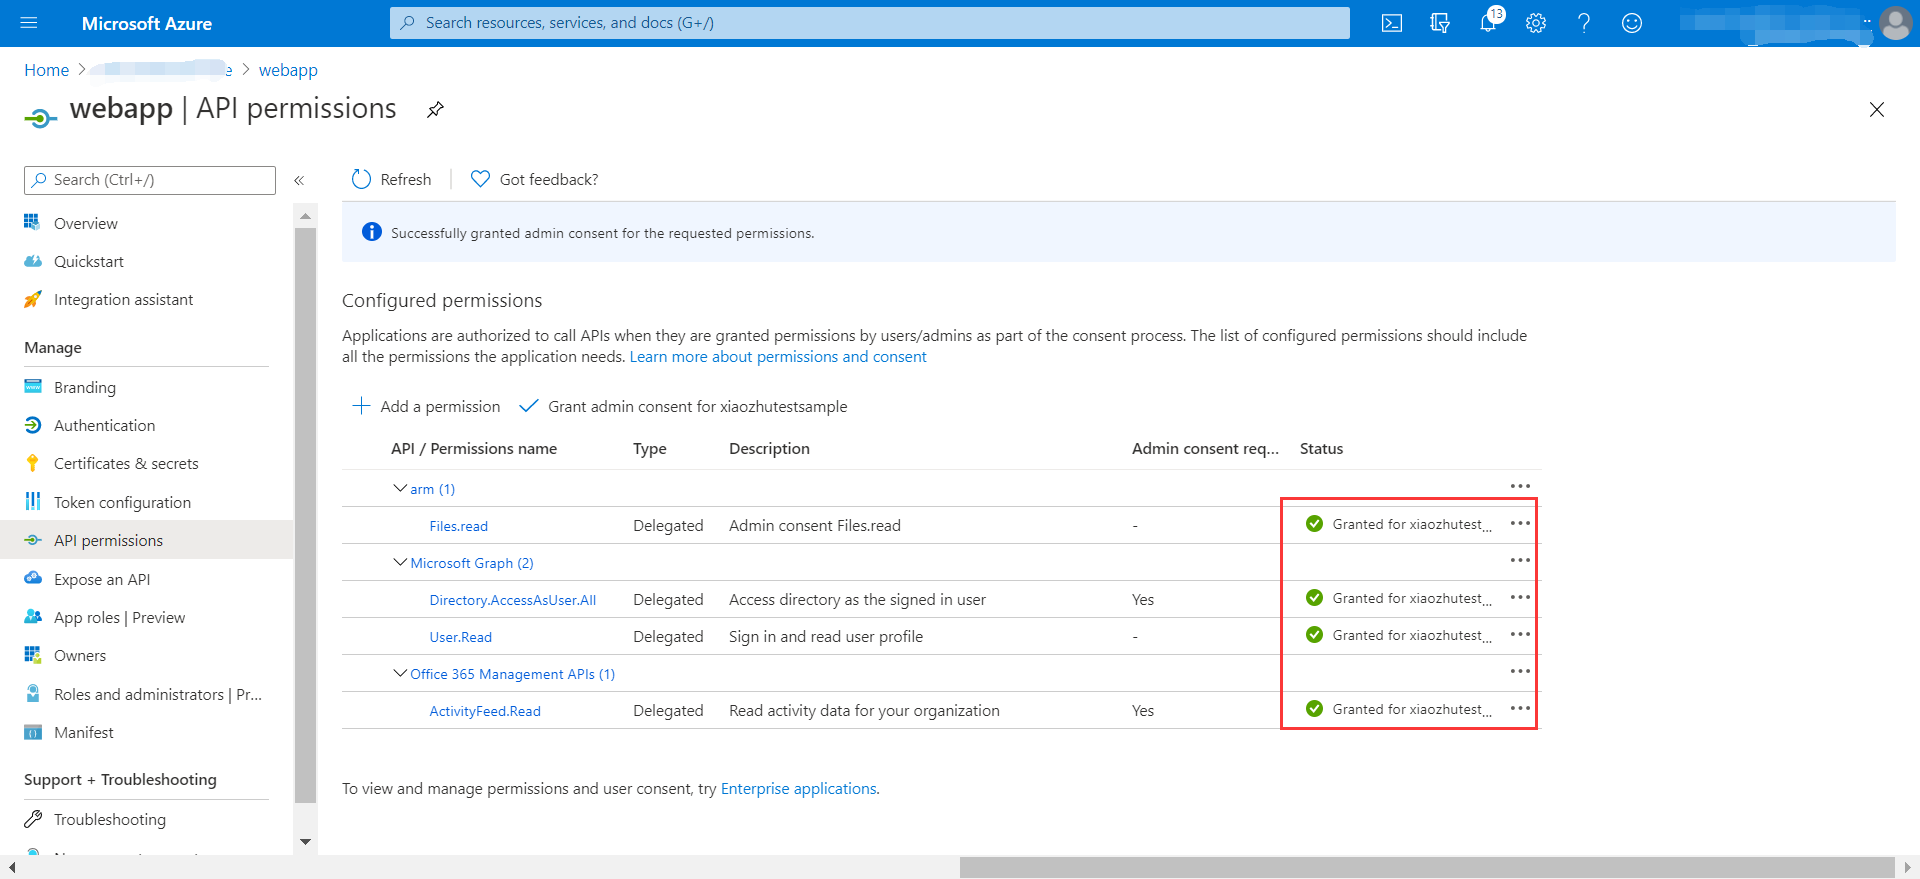
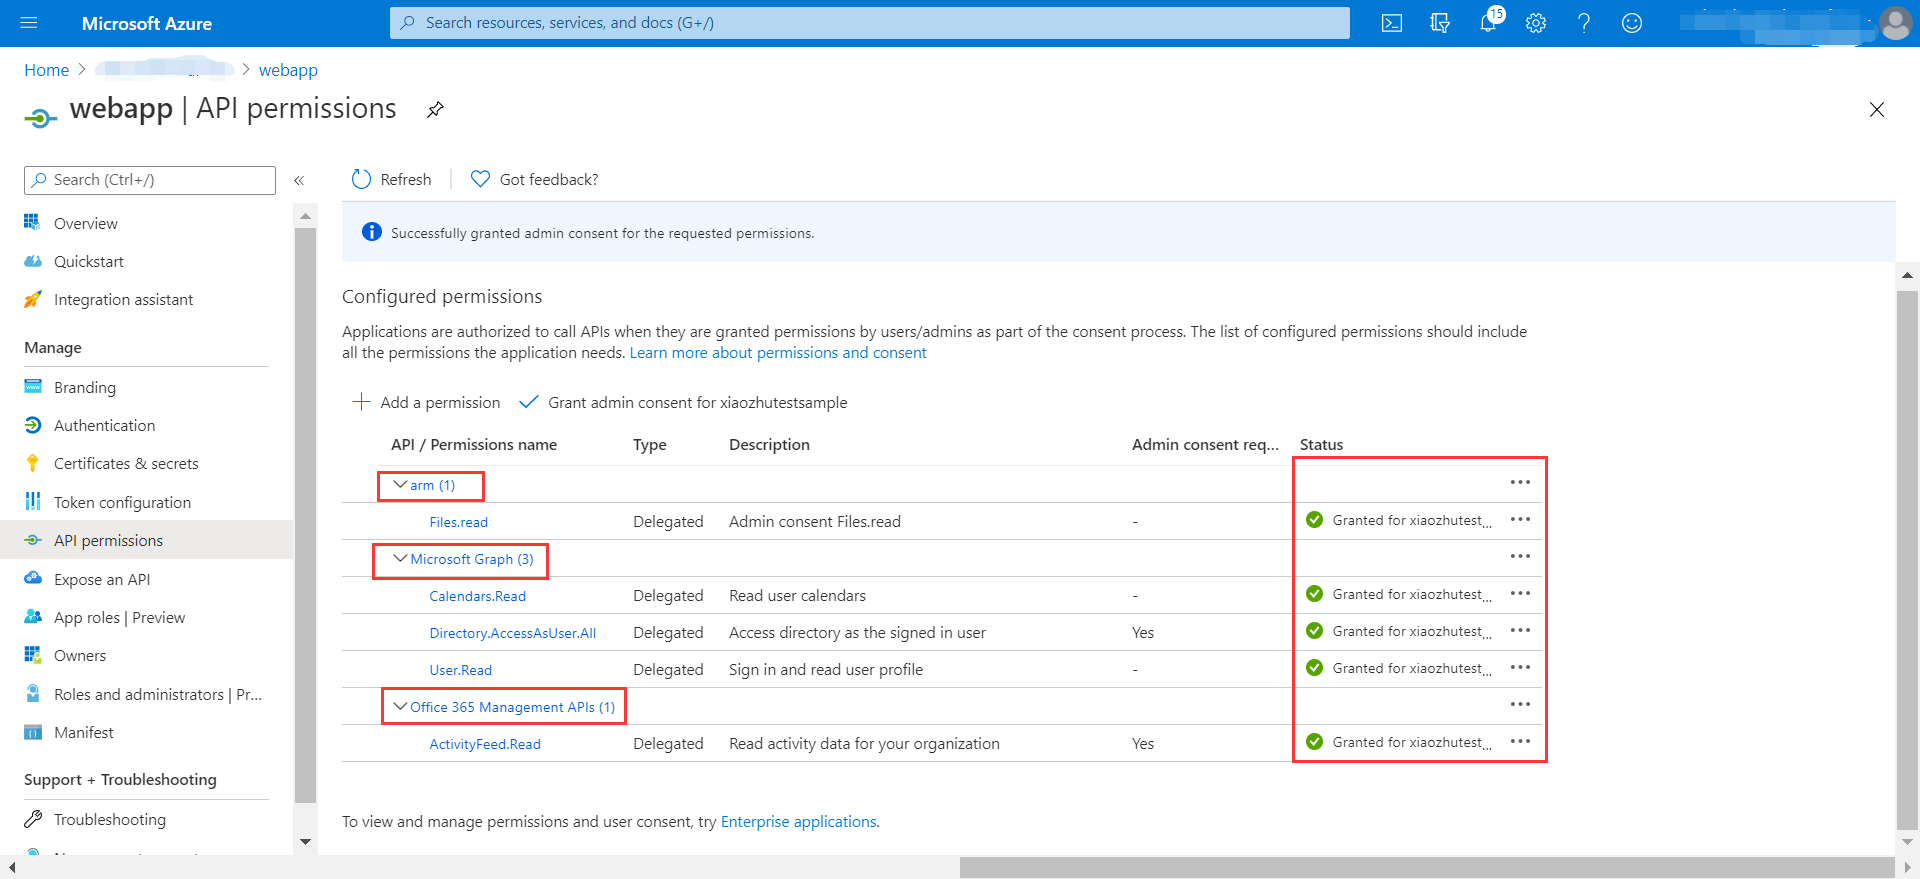
default

diff --git a/sdk/spring/azure-spring-boot-samples/azure-spring-boot-sample-active-directory-webapp/README.md b/sdk/spring/azure-spring-boot-samples/azure-spring-boot-sample-active-directory-webapp/README.md
@@ -4,78 +4,59 @@
 This sample illustrates how to use `azure-spring-boot-starter-active-directory` package to work with OAuth 2.0 and OpenID Connect protocols on Auzre. This sample will use Microsoft Graph API to retrieve user infomation.
 
 ## Getting started
-
 ### Environment checklist
 We need to ensure that this [environment checklist][ready-to-run-checklist] is completed before the run.
 
 ### Portal configurations
-
-#### Configure custom web api
+#### Configure web api
 1. Search for and select Azure Active Directory.
 2. Under Manage, select **App registrations** -> **New registration**.![Protal manage](docs/image-protal-manage.png "Protal manage")
 3. The registered application name is filled into **arm**, select **Accounts in this organizational directory only**, click **register** button.![Register a web api](docs/image-register-a-web-api.png "Register a web api")
-4. Under **arm** application, select **Certificates & secrets** -> **new client secret**, expires select **Never**, click **add** button.(Remember to save the secrets here and use them later)![Creat secrets](docs/image-creat-secrets-api.png "Creat secrets")
-5. Under **arm** application, select **Expose an API** -> **Add a scope**, Use the default **Application ID URI**, click **Save and continue** button.![Expose apis](docs/image-expose-apis.png "Expose apis")
-6. After step five,the page will refresh again.Then set the **Scope name** to *Files.read*.![Add a scope](docs/image-add-a-scope.png "Add a scope")
-
-#### Configure custom web app
-2. Under Manage, select **App registrations** -> **New registration**.![Protal manage](docs/image-protal-manage.png "Protal manage")
-3. The registered application name is filled into **webapp**, select **Accounts in this organizational directory only**, click the register button.![Register a web app](docs/image-register-a-web-app.png "Register a web app")
-4. Under **webapp** application, select **Certificates & secrets** -> **new client secret**, expires select **Never**, click the add button.(Remember to save the secrets here and use them later)![Creat secrets](docs/image-creat-secrets-app.png "Creat secrets")
-5. Under **webapp** application, select **Authentication** -> **Add a platform**, select **web** platform, redirect urls set to `http://localhost:8080/login/oauth2/code/azure`, check the Access Token and ID Token checkboxes, click configure button.![Add a platfform](docs/image-add-a-platfform.png "Add a platfform")
-   Under **webapp** application, select **Authentication** -> **Add URI**, redirect urls again set to `http://localhost:8080/login/oauth2/code/arm`. ![App add url](docs/image-app-add-url.png "App add url")
-6. Under **webapp** application, select **API permissions** -> **Add a permission**, select **Microsoft Graph**.![Api permission](docs/image-api-permissions.png "Api permission")
+4. Under **arm** application, select **Certificates & secrets** -> **new client secret**, expires select **Never**, click **add** button.(Remember to save the secrets here and use it later)![Creat secrets](docs/image-creat-secrets-api.png "Creat secrets")
+5. Under **arm** application, select **Expose an API** -> **Add a scope**, Use the default **Application ID URI**, click **Save and continue** button.![Expose apis](docs/image-set-app-id-url.png "Expose apis")
+6. After step five,the page will refresh again.Then set the **Scope name** to *Files.read*.(This scope will be used in Application.yml)![Add a app id url](docs/image-add-a-scope.png "Add a app id url")
+7. Expose scopes in web API registration.![Expose api](docs/image-expose-api.png "Expose api")
+See [Register app or web API], [Expose scopes in web API registration] for more information about the Web API.
+   
+#### Configure web app
+1. Under Manage In the same tenant, select **App registrations** -> **New registration**.![Protal manage](docs/image-protal-manage.png "Protal manage")
+2. The registered application name is filled into **webapp**, select **Accounts in this organizational directory only**, click the **register** button.![Register a web app](docs/image-register-a-web-app.png "Register a web app")
+3. Under **webapp** application, select **Certificates & secrets** -> **new client secret**, expires select **Never**, click the **add** button.(Remember to save the secrets here and use them later)![Creat secrets](docs/image-creat-secrets-app.png "Creat secrets")
+4. Under **webapp** application, select **Authentication** -> **Add a platform**, select **web** platform, redirect urls set to `http://localhost:8080/login/oauth2/code/azure`, check the Access Token and ID Token checkboxes, click **configure** button.![Add a platfform](docs/image-add-a-platfform.png "Add a platfform")
+5. Under **webapp** application, select **Authentication** -> **Add URI**, you need to add redirect URIs of `http://localhost:8080/login/oauth2/code/arm`. ![App add url](docs/image-app-add-url.png "App add url")
+6. Under **webapp** application, select **API permissions** -> **Add a permission**, select **Microsoft Graph**. Next, search **Calendar.Read** via select Permissions, check the check box,click **add permissions** button.![Api permission](docs/image-api-permissions.png "Api permission")
 7. Similarly, add **Directory.AccessAsUser.All** permission in **Microsoft Graph** and add **ActivityFeed.Read** permission in **Office 365 Management APIs**.![Add Directory.AccessAsUser.All and ActivityFeed.Read permission](docs/image-add-accessuser-and-activityfeed-permission.png "Add Directory.AccessAsUser.All and ActivityFeed.Read permission")
 8. Continue to select **API permissions** -> **Add a permission** -> **My APIS**, select **arm** tab, add **Files.read** permission,click **Add permissions** button.![Webapi permission](docs/image-webapi-permission.png "Webapi permission")
 9. click **Grant admin consent for...**.![Grant permission](docs/image-granted-permission.png "Grant permission")
 10. Finally.![Final](docs/image-final.png "Final")
 
-#### Configure the callback URL
-![Platform configurations](docs/image-platform-configurations.png "Platform configurations")
+See [Register app or web API], [Grant scoped permission] for more information about the Web APP.
 
-- Set redirect URIs with `http://localhost:8080/login/oauth2/code/azure`.
-- Ensure **Access tokens** and **ID tokens** are selected.
-- To use on-demand authorization of certain resource, you need to add redirect URIs of `http://localhost:8080/login/oauth2/code/{registration-id}`. In this sample, set redirect URIs with `http://localhost:8080/login/oauth2/code/arm`.
-
-### Configure necessary API permissions
-The sample retrieves user's group memberships using Microsoft graph API which requires the registered app to have `Directory.AccessAsUser.All` permission under `Delegated Permissions` of `Microsoft Graph`, which can allow an application to access the directory as the signed-in user. Also, to display the function of calling multiple resources, this sample will acquire `ActivityFeed.Read` permission under `Office 365 Management APIs` resource. You need AAD admin privilege to be able to grant the permission in API ACCESS -> Required permission. You can follow the below steps:	
-
-* In the list of pages for the app, select **API permissions**	
-   - Click the **Add a permission** button	
-   - Ensure that the **Microsoft APIs** tab is selected	
-   - In the *Commonly used Microsoft APIs* section, click on **Microsoft Graph**	
-   - In the **Delegated permissions** section, ensure that the right permissions are checked: **Directory.AccessAsUser.All**(It will be used by the application to read user group information) 
-     and **Calendars.Read**(It will be configured in the application.yml file)
-   - Click the **Add permissions** button
-   - Under **My APIs** tab
-   - Select our custom **arm** item
-   - Select **Delegated permissions**, and then click **Files.read**(It will be configured in the application.yml file)
-   - Click the **Add permissions** button
-   - Under **Office 365 Management APIs** tab
-   - Select **Delegated permissions**, and then click **ActivityFeed.Read**(It will be configured in the application.yml file)
-   - Click the **Add permissions** button
-   - Click **Grant admin consent for...** and Yes when prompted.
-
-### Configure groups for sign in user
-
-In order to try the authorization action with this sample with minimum effort, [configure the user and groups in Azure Active Directory](https://docs.microsoft.com/azure/active-directory/active-directory-groups-create-azure-portal), configure the user with `group1`. 
-
+#### Configure groups for sign in user
+In order to try the authorization action with this sample with minimum effort, [configure the user and groups in Azure Active Directory], configure the user with `group1`. 
 
 ## Examples
-
 ### Configure application.yml
-
 ```yaml
 azure:
   activedirectory:
-    client-id: <client-id>
-    client-secret: <client-secret>
+    authorization:
+      arm:
+        on-demand: true
+        scopes: <your-arm-scope-url>
+      graph:
+        scopes: https://graph.microsoft.com/Calendars.Read
+      office:
+        scopes: https://manage.office.com/ActivityFeed.Read
+    client-id: <webapp-client-id>
+    client-secret: <webapp-client-secret>
     tenant-id: <tenant-id>
     user-group:
       allowed-groups: group1, group2
 # It's suggested the logged in user should at least belong to one of the above groups
 # If not, the logged in user will not be able to access any authorization controller rest APIs
 ```
+
 ### Run with Maven
 ```shell
 cd azure-spring-boot-samples/azure-spring-boot-sample-active-directory-webapp
@@ -83,7 +64,6 @@ mvn spring-boot:run
 ```
 
 ### Check the authentication and authorization
-	
 1. Access http://localhost:8080
 2. Login
 3. Access `Group1 Message` link: success
@@ -91,8 +71,8 @@ mvn spring-boot:run
 5. Access `Graph Client` link: access token for `Microsoft Graph` will be acquired, and the content of customized **OAuth2AuthorizedClient** instance for `Microsoft Graph` resource will be displayed.
 6. Access `Office Client` link: access token for `Office 365 Management APIs` will be acquired, the content of customized **OAuth2AuthorizedClient** instance for `Office 365 Management APIs` resource will be displayed.
 7. Access `Arm Client` link: page will be redirected to Consent page for on-demand authorization of `user_impersonation` permission in `Azure Service Management` resource. Clicking on `Consent`, access token for `Azure Service Management` will be acquired, the content of customized **OAuth2AuthorizedClient** instance for `Azure Service Management` resource will be displayed.
-## Troubleshooting
 
+## Troubleshooting
 ### If registered application is multi-tenanted, how to run this sample?
 Set `azure.activedirectory.tenant-id=common` in your application.properties file:
 ```yaml
@@ -102,9 +82,14 @@ azure:
 ```
 ---
 ### Meet with `AADSTS240002: Input id_token cannot be used as 'urn:ietf:params:oauth:grant-type:jwt-bearer' grant` error.
-In Azure portal, app registration manifest page, configure `oauth2AllowImplicitFlow` in your application manifest to `true`. See [this issue](https://github.com/MicrosoftDocs/azure-docs/issues/8121#issuecomment-387090099) for details on this workaround.
+In Azure portal, app registration manifest page, configure `oauth2AllowImplicitFlow` in your application manifest to `true`. See [this issue] for details on this workaround.
 
 ## Next steps
 ## Contributing
 <!-- LINKS -->
 [ready-to-run-checklist]: https://github.com/Azure/azure-sdk-for-java/blob/master/sdk/spring/azure-spring-boot-samples/README.md#ready-to-run-checklist
+[Register app or web API]: https://docs.microsoft.com/azure/active-directory/develop/quickstart-register-app
+[Expose scopes in web API registration]: https://docs.microsoft.com/azure/active-directory/develop/quickstart-configure-app-expose-web-apis
+[Grant scoped permission]: https://docs.microsoft.com/azure/active-directory/develop/quickstart-configure-app-access-web-apis
+[configure the user and groups in Azure Active Directory]: https://docs.microsoft.com/azure/active-directory/active-directory-groups-create-azure-portal
+[this issue]: https://github.com/MicrosoftDocs/azure-docs/issues/8121#issuecomment-387090099
